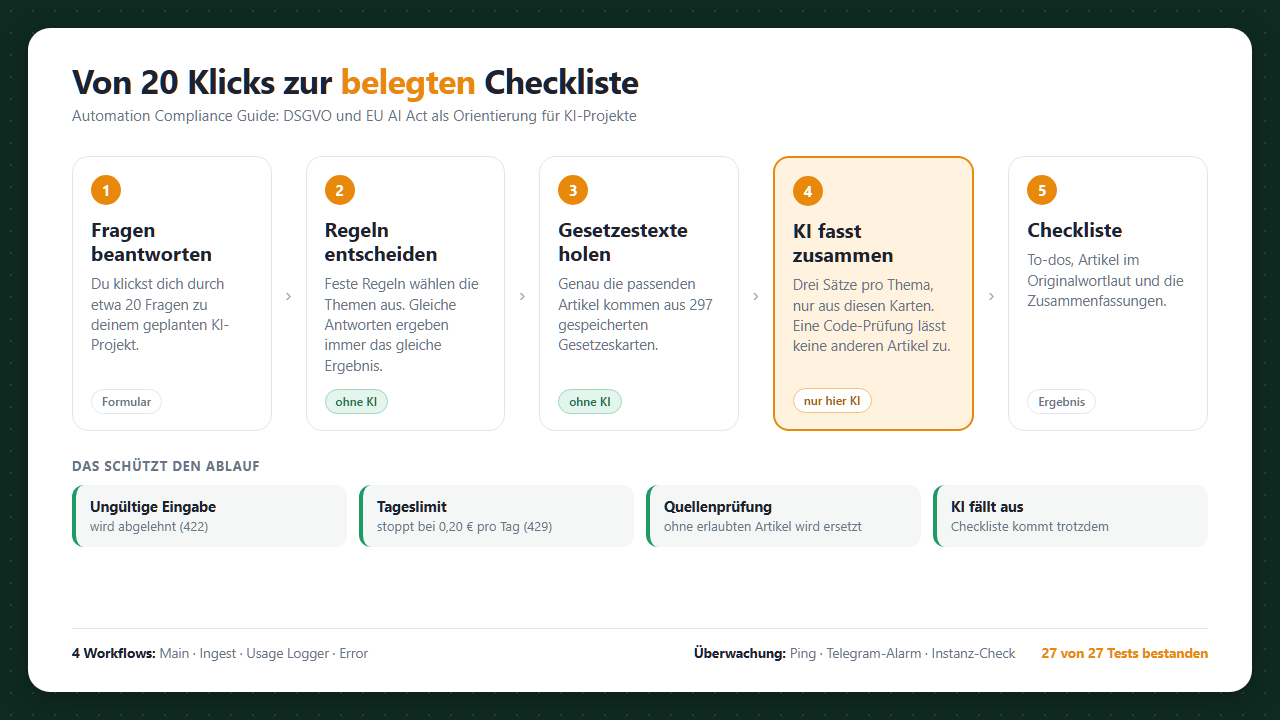
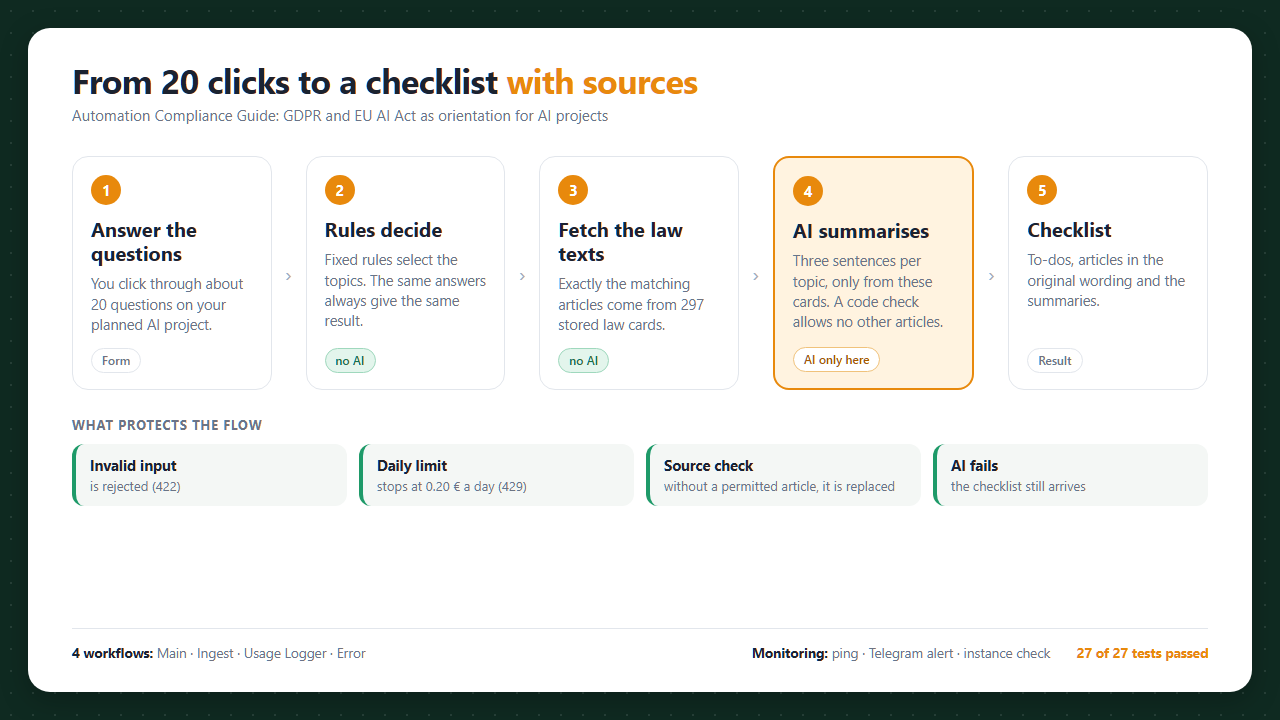
English title images for Guide and Lead Qualification, test plan link next to demo, demo fixes

diff --git a/workflows/lead-qualification/demo/neu_content.js b/workflows/lead-qualification/demo/neu_content.js
@@ -141,7 +141,7 @@ function pingWin(el, kind) {
   const start = kind === "start";
   el.innerHTML = `<div class="win hc"><div class="wbar dark"><span>Healthchecks.io</span><span>Checks</span></div><div class="hcrow"><span class="hcdot"></span><b>Lead Qualification · Intake and Scoring</b><span class="hcst">${start ? "waiting" : "running"}</span></div><div class="hclog"></div><div class="hcnote">${start ? "If no ping arrives at the end of the run, the run counts as failed." : "Stops the clock: the run counts as successful."}</div></div>`;
   const tl = gsap.timeline(), dot = el.querySelector(".hcdot"), s = el.querySelector(".hcst"), log = el.querySelector(".hclog");
-  tl.add(() => log.innerHTML = `<div>→ GET …/ping/‹id›${start ? "/start" : ""}  <small>(aus n8n)</small></div>`, .3);
+  tl.add(() => log.innerHTML = `<div>→ GET …/ping/‹id›${start ? "/start" : ""}  <small>(from n8n)</small></div>`, .3);
   tl.add(() => log.innerHTML += '<div class="ok">← 200 OK</div>', 1.1);
   tl.add(() => { dot.className = "hcdot " + (start ? "run" : "up"); s.textContent = start ? "running" : "successful"; }, 1.4);
   return tl;

diff --git a/workflows/lead-qualification/demo/neu_data.js b/workflows/lead-qualification/demo/neu_data.js
@@ -211,7 +211,7 @@ return $input.all().map((item, index) => {
   // Here we collect the reasons for spam
   const gruende = [];
   if (AUTOMATISCHE_ABSENDER.test(email)) gruende.push('automatischer Absender');
-  if (nachricht.length < MIN_NACHRICHT_LAENGE) gruende.push('Message too short');
+  if (nachricht.length < MIN_NACHRICHT_LAENGE) gruende.push('Nachricht zu kurz');
   if (anzahlLinks > MAX_LINKS) gruende.push('zu viele Links');
 
   // The mail moves on, with the result attached

diff --git a/workflows/lead-qualification/README.md b/workflows/lead-qualification/README.md
@@ -8,7 +8,8 @@ A reply to a hot lead leaves only after a human clicks **Send**.
 Mails, prompts and replies are in German, while the workflows and the notes inside them are in English.\
 The English demo and test plan show the mails, replies and Telegram texts translated.
 
-▶ **[Open the interactive demo](https://markus-piljanovic.github.io/automation-portfolio/workflows/lead-qualification/demo/index.html)**: click through six cases, node by node ([in German](https://markus-piljanovic.github.io/automation-portfolio/workflows/lead-qualification/demo/index.de.html)).
+- ▶ **Interactive demo:** [open in the browser](https://markus-piljanovic.github.io/automation-portfolio/workflows/lead-qualification/demo/index.html) (six cases, node by node), also [in German](https://markus-piljanovic.github.io/automation-portfolio/workflows/lead-qualification/demo/index.de.html)
+- ✅ **Test plan:** [22 of 23 cases passed](https://markus-piljanovic.github.io/automation-portfolio/workflows/lead-qualification/testing/test-plan.html), also [in German](https://markus-piljanovic.github.io/automation-portfolio/workflows/lead-qualification/testing/test-plan.de.html)
 
 ![How a request flows](images/how-it-works.png)
 
